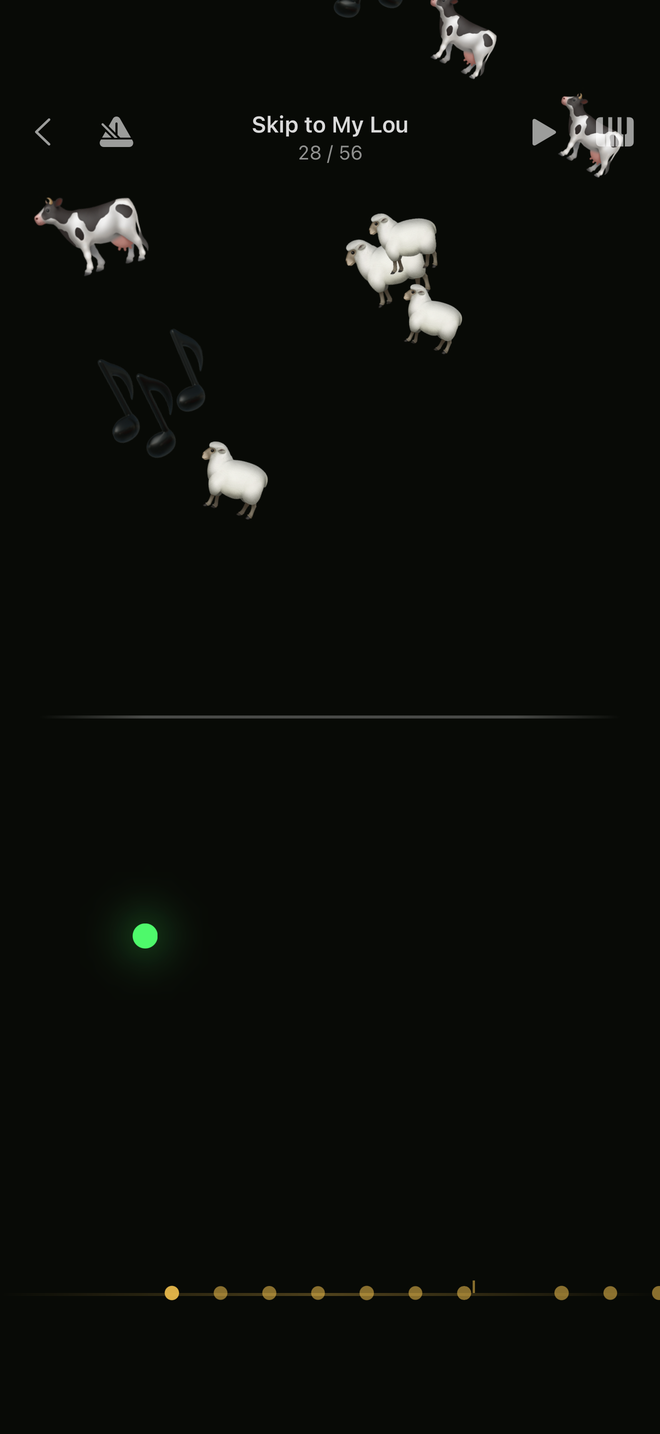
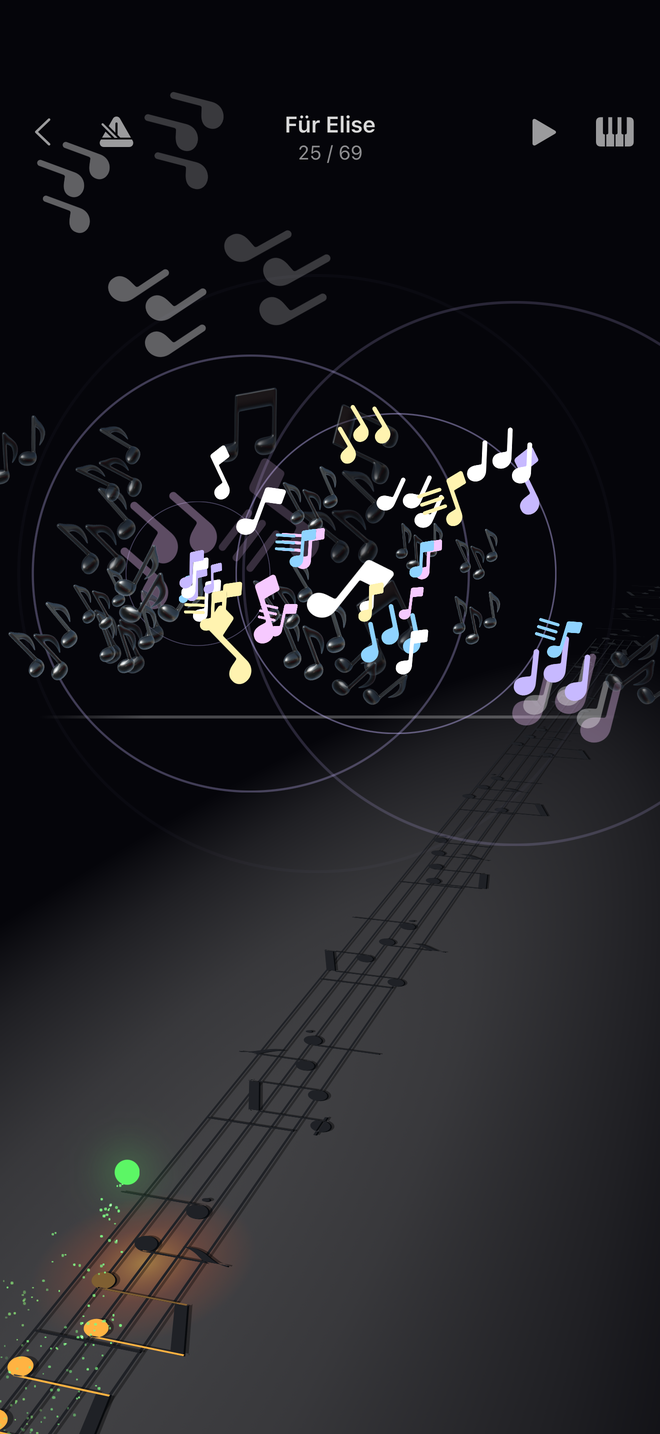
Publish tappymusic: 66 pages

diff --git a/tappymusic/el/index.html b/tappymusic/el/index.html
@@ -57,11 +57,11 @@
   <div class="shots">
     <figure><button class="zoom" type="button" popovertarget="zoom-img-library-png"><img src="../img/library.png" alt="Η βιβλιοθήκη με τα πακέτα μελωδιών και τα τραγούδια τους." width="660" height="1434" loading="lazy"></button></figure>
     <figure><button class="zoom" type="button" popovertarget="zoom-img-play-png"><img src="../img/play.png" alt="Η οθόνη παιξίματος στη μέση ενός τραγουδιού, με εικόνες σε κάθε άγγιγμα." width="660" height="1434" loading="eager"></button></figure>
-    <figure><button class="zoom" type="button" popovertarget="zoom-img-follow-png"><img src="../img/follow.png" alt="Ακολούθησε τη μπάλα: μια μπάλα που αναπηδά πάνω από τη διαδρομή και προσγειώνεται στην επόμενη νότα." width="660" height="1434" loading="lazy"></button></figure>
+    <figure><button class="zoom" type="button" popovertarget="zoom-img-follow-png"><img src="../img/follow.png" alt="Ακολούθησε τη μπάλα: μια μπάλα με αστερόσκονη προσγειώνεται σε αληθινές νότες που απλώνονται στο βάθος." width="660" height="1434" loading="lazy"></button></figure>
   </div>
   <div popover id="zoom-img-library-png" class="zoom-view" style="--ratio: 0.4603; --most: 1320px"><button class="zoom-shut" type="button" popovertarget="zoom-img-library-png" popovertargetaction="hide" aria-labelledby="zoom-close"><img src="../img/library.png" alt="" width="660" height="1434" loading="lazy"><span class="zoom-x" aria-hidden="true">×</span></button><figcaption>Η βιβλιοθήκη με τα πακέτα μελωδιών και τα τραγούδια τους.</figcaption></div>
   <div popover id="zoom-img-play-png" class="zoom-view" style="--ratio: 0.4603; --most: 1320px"><button class="zoom-shut" type="button" popovertarget="zoom-img-play-png" popovertargetaction="hide" aria-labelledby="zoom-close"><img src="../img/play.png" alt="" width="660" height="1434" loading="lazy"><span class="zoom-x" aria-hidden="true">×</span></button><figcaption>Η οθόνη παιξίματος στη μέση ενός τραγουδιού, με εικόνες σε κάθε άγγιγμα.</figcaption></div>
-  <div popover id="zoom-img-follow-png" class="zoom-view" style="--ratio: 0.4603; --most: 1320px"><button class="zoom-shut" type="button" popovertarget="zoom-img-follow-png" popovertargetaction="hide" aria-labelledby="zoom-close"><img src="../img/follow.png" alt="" width="660" height="1434" loading="lazy"><span class="zoom-x" aria-hidden="true">×</span></button><figcaption>Ακολούθησε τη μπάλα: μια μπάλα που αναπηδά πάνω από τη διαδρομή και προσγειώνεται στην επόμενη νότα.</figcaption></div>
+  <div popover id="zoom-img-follow-png" class="zoom-view" style="--ratio: 0.4603; --most: 1320px"><button class="zoom-shut" type="button" popovertarget="zoom-img-follow-png" popovertargetaction="hide" aria-labelledby="zoom-close"><img src="../img/follow.png" alt="" width="660" height="1434" loading="lazy"><span class="zoom-x" aria-hidden="true">×</span></button><figcaption>Ακολούθησε τη μπάλα: μια μπάλα με αστερόσκονη προσγειώνεται σε αληθινές νότες που απλώνονται στο βάθος.</figcaption></div>
 
   <div class="stats">
     <div><b>128</b><span>μελωδίες</span></div>
@@ -124,7 +124,7 @@
   <div class="cards">
     <div class="card">
       <h3>Ακολούθησε τη μπάλα</h3>
-      <p>Μια μπάλα αναπηδά και προσγειώνεται ακριβώς όταν οφείλεται η επόμενη νότα, πέφτοντας με τη βαρύτητα: ο ρυθμός φαίνεται πριν φτάσει.</p>
+      <p>Το τραγούδι γραμμένο σε αληθινή παρτιτούρα, που απλώνεται στο βάθος σαν δρόμος. Μια μπάλα πηδά από νότα σε νότα και προσγειώνεται σε καθεμιά ακριβώς τη στιγμή της: ο ρυθμός φαίνεται πριν φτάσει.</p>
     </div>
     <div class="card">
       <h3>Άκου</h3>

diff --git a/tappymusic/uk/index.html b/tappymusic/uk/index.html
@@ -57,11 +57,11 @@
   <div class="shots">
     <figure><button class="zoom" type="button" popovertarget="zoom-img-library-png"><img src="../img/library.png" alt="Бібліотека з наборами мелодій та їхніми піснями." width="660" height="1434" loading="lazy"></button></figure>
     <figure><button class="zoom" type="button" popovertarget="zoom-img-play-png"><img src="../img/play.png" alt="Екран гри посеред пісні, з малюнками від кожного дотику." width="660" height="1434" loading="eager"></button></figure>
-    <figure><button class="zoom" type="button" popovertarget="zoom-img-follow-png"><img src="../img/follow.png" alt="Слідкуй за м’ячиком: стрибучий м’ячик над доріжкою приземляється на наступну ноту." width="660" height="1434" loading="lazy"></button></figure>
+    <figure><button class="zoom" type="button" popovertarget="zoom-img-follow-png"><img src="../img/follow.png" alt="Слідкуй за м’ячиком: м’ячик із зоряним пилом приземляється на справжні ноти, що біжать удалину." width="660" height="1434" loading="lazy"></button></figure>
   </div>
   <div popover id="zoom-img-library-png" class="zoom-view" style="--ratio: 0.4603; --most: 1320px"><button class="zoom-shut" type="button" popovertarget="zoom-img-library-png" popovertargetaction="hide" aria-labelledby="zoom-close"><img src="../img/library.png" alt="" width="660" height="1434" loading="lazy"><span class="zoom-x" aria-hidden="true">×</span></button><figcaption>Бібліотека з наборами мелодій та їхніми піснями.</figcaption></div>
   <div popover id="zoom-img-play-png" class="zoom-view" style="--ratio: 0.4603; --most: 1320px"><button class="zoom-shut" type="button" popovertarget="zoom-img-play-png" popovertargetaction="hide" aria-labelledby="zoom-close"><img src="../img/play.png" alt="" width="660" height="1434" loading="lazy"><span class="zoom-x" aria-hidden="true">×</span></button><figcaption>Екран гри посеред пісні, з малюнками від кожного дотику.</figcaption></div>
-  <div popover id="zoom-img-follow-png" class="zoom-view" style="--ratio: 0.4603; --most: 1320px"><button class="zoom-shut" type="button" popovertarget="zoom-img-follow-png" popovertargetaction="hide" aria-labelledby="zoom-close"><img src="../img/follow.png" alt="" width="660" height="1434" loading="lazy"><span class="zoom-x" aria-hidden="true">×</span></button><figcaption>Слідкуй за м’ячиком: стрибучий м’ячик над доріжкою приземляється на наступну ноту.</figcaption></div>
+  <div popover id="zoom-img-follow-png" class="zoom-view" style="--ratio: 0.4603; --most: 1320px"><button class="zoom-shut" type="button" popovertarget="zoom-img-follow-png" popovertargetaction="hide" aria-labelledby="zoom-close"><img src="../img/follow.png" alt="" width="660" height="1434" loading="lazy"><span class="zoom-x" aria-hidden="true">×</span></button><figcaption>Слідкуй за м’ячиком: м’ячик із зоряним пилом приземляється на справжні ноти, що біжать удалину.</figcaption></div>
 
   <div class="stats">
     <div><b>128</b><span>мелодій</span></div>
@@ -124,7 +124,7 @@
   <div class="cards">
     <div class="card">
       <h3>Слідкуй за м’ячиком</h3>
-      <p>М’ячик підстрибує й приземляється точно тоді, коли час наступної ноти, падаючи під дією тяжіння: ритм видно ще до того, як він настане.</p>
+      <p>Пісня, записана справжніми нотами, що біжать удалину, мов доріжка. М’ячик стрибає з ноти на ноту й приземляється на кожну саме вчасно: ритм видно ще до того, як він настане.</p>
     </div>
     <div class="card">
       <h3>Послухати</h3>

diff --git a/tappymusic/ru/index.html b/tappymusic/ru/index.html
@@ -57,11 +57,11 @@
   <div class="shots">
     <figure><button class="zoom" type="button" popovertarget="zoom-img-library-png"><img src="../img/library.png" alt="Библиотека с наборами мелодий и их песнями." width="660" height="1434" loading="lazy"></button></figure>
     <figure><button class="zoom" type="button" popovertarget="zoom-img-play-png"><img src="../img/play.png" alt="Экран игры посреди песни, с картинками от каждого касания." width="660" height="1434" loading="eager"></button></figure>
-    <figure><button class="zoom" type="button" popovertarget="zoom-img-follow-png"><img src="../img/follow.png" alt="Следи за мячиком: прыгающий мячик над дорожкой приземляется на следующую ноту." width="660" height="1434" loading="lazy"></button></figure>
+    <figure><button class="zoom" type="button" popovertarget="zoom-img-follow-png"><img src="../img/follow.png" alt="Следи за мячиком: мячик со звёздной пылью приземляется на настоящие ноты, убегающие вдаль." width="660" height="1434" loading="lazy"></button></figure>
   </div>
   <div popover id="zoom-img-library-png" class="zoom-view" style="--ratio: 0.4603; --most: 1320px"><button class="zoom-shut" type="button" popovertarget="zoom-img-library-png" popovertargetaction="hide" aria-labelledby="zoom-close"><img src="../img/library.png" alt="" width="660" height="1434" loading="lazy"><span class="zoom-x" aria-hidden="true">×</span></button><figcaption>Библиотека с наборами мелодий и их песнями.</figcaption></div>
   <div popover id="zoom-img-play-png" class="zoom-view" style="--ratio: 0.4603; --most: 1320px"><button class="zoom-shut" type="button" popovertarget="zoom-img-play-png" popovertargetaction="hide" aria-labelledby="zoom-close"><img src="../img/play.png" alt="" width="660" height="1434" loading="lazy"><span class="zoom-x" aria-hidden="true">×</span></button><figcaption>Экран игры посреди песни, с картинками от каждого касания.</figcaption></div>
-  <div popover id="zoom-img-follow-png" class="zoom-view" style="--ratio: 0.4603; --most: 1320px"><button class="zoom-shut" type="button" popovertarget="zoom-img-follow-png" popovertargetaction="hide" aria-labelledby="zoom-close"><img src="../img/follow.png" alt="" width="660" height="1434" loading="lazy"><span class="zoom-x" aria-hidden="true">×</span></button><figcaption>Следи за мячиком: прыгающий мячик над дорожкой приземляется на следующую ноту.</figcaption></div>
+  <div popover id="zoom-img-follow-png" class="zoom-view" style="--ratio: 0.4603; --most: 1320px"><button class="zoom-shut" type="button" popovertarget="zoom-img-follow-png" popovertargetaction="hide" aria-labelledby="zoom-close"><img src="../img/follow.png" alt="" width="660" height="1434" loading="lazy"><span class="zoom-x" aria-hidden="true">×</span></button><figcaption>Следи за мячиком: мячик со звёздной пылью приземляется на настоящие ноты, убегающие вдаль.</figcaption></div>
 
   <div class="stats">
     <div><b>128</b><span>мелодий</span></div>
@@ -124,7 +124,7 @@
   <div class="cards">
     <div class="card">
       <h3>Следи за мячиком</h3>
-      <p>Мячик подпрыгивает и приземляется ровно тогда, когда пора следующей ноте, падая под действием тяжести: ритм виден ещё до того, как наступит.</p>
+      <p>Песня, записанная настоящими нотами, которые убегают вдаль, как дорожка. Мячик прыгает с ноты на ноту и приземляется на каждую ровно вовремя: ритм виден ещё до того, как наступит.</p>
     </div>
     <div class="card">
       <h3>Послушать</h3>

diff --git a/tappymusic/ja/index.html b/tappymusic/ja/index.html
@@ -57,11 +57,11 @@
   <div class="shots">
     <figure><button class="zoom" type="button" popovertarget="zoom-img-library-png"><img src="../img/library.png" alt="曲のパックと、その中の曲が並ぶ一覧。" width="660" height="1434" loading="lazy"></button></figure>
     <figure><button class="zoom" type="button" popovertarget="zoom-img-play-png"><img src="../img/play.png" alt="演奏中の画面。タップのたびに絵が飛び出します。" width="660" height="1434" loading="eager"></button></figure>
-    <figure><button class="zoom" type="button" popovertarget="zoom-img-follow-png"><img src="../img/follow.png" alt="ボールに合わせる：道すじの上をはずむボールが、次の音に着地します。" width="660" height="1434" loading="lazy"></button></figure>
+    <figure><button class="zoom" type="button" popovertarget="zoom-img-follow-png"><img src="../img/follow.png" alt="ボールに合わせる：星くずをまとったボールが、遠くへ続く本物の音符に着地します。" width="660" height="1434" loading="lazy"></button></figure>
   </div>
   <div popover id="zoom-img-library-png" class="zoom-view" style="--ratio: 0.4603; --most: 1320px"><button class="zoom-shut" type="button" popovertarget="zoom-img-library-png" popovertargetaction="hide" aria-labelledby="zoom-close"><img src="../img/library.png" alt="" width="660" height="1434" loading="lazy"><span class="zoom-x" aria-hidden="true">×</span></button><figcaption>曲のパックと、その中の曲が並ぶ一覧。</figcaption></div>
   <div popover id="zoom-img-play-png" class="zoom-view" style="--ratio: 0.4603; --most: 1320px"><button class="zoom-shut" type="button" popovertarget="zoom-img-play-png" popovertargetaction="hide" aria-labelledby="zoom-close"><img src="../img/play.png" alt="" width="660" height="1434" loading="lazy"><span class="zoom-x" aria-hidden="true">×</span></button><figcaption>演奏中の画面。タップのたびに絵が飛び出します。</figcaption></div>
-  <div popover id="zoom-img-follow-png" class="zoom-view" style="--ratio: 0.4603; --most: 1320px"><button class="zoom-shut" type="button" popovertarget="zoom-img-follow-png" popovertargetaction="hide" aria-labelledby="zoom-close"><img src="../img/follow.png" alt="" width="660" height="1434" loading="lazy"><span class="zoom-x" aria-hidden="true">×</span></button><figcaption>ボールに合わせる：道すじの上をはずむボールが、次の音に着地します。</figcaption></div>
+  <div popover id="zoom-img-follow-png" class="zoom-view" style="--ratio: 0.4603; --most: 1320px"><button class="zoom-shut" type="button" popovertarget="zoom-img-follow-png" popovertargetaction="hide" aria-labelledby="zoom-close"><img src="../img/follow.png" alt="" width="660" height="1434" loading="lazy"><span class="zoom-x" aria-hidden="true">×</span></button><figcaption>ボールに合わせる：星くずをまとったボールが、遠くへ続く本物の音符に着地します。</figcaption></div>
 
   <div class="stats">
     <div><b>128</b><span>曲</span></div>
@@ -124,7 +124,7 @@
   <div class="cards">
     <div class="card">
       <h3>ボールに合わせる</h3>
-      <p>ボールが弾んで、次の音のタイミングちょうどに着地します。重力で落ちるので、リズムが来る前に目で見えます。</p>
+      <p>曲が本物の楽譜になって、道のように遠くまで続きます。ボールが音符から音符へ跳ね、それぞれのタイミングちょうどに着地するので、リズムが来る前に目で見えます。</p>
     </div>
     <div class="card">
       <h3>聴く</h3>

diff --git a/tappymusic/ko/index.html b/tappymusic/ko/index.html
@@ -57,11 +57,11 @@
   <div class="shots">
     <figure><button class="zoom" type="button" popovertarget="zoom-img-library-png"><img src="../img/library.png" alt="멜로디 팩과 그 안의 곡이 보이는 목록." width="660" height="1434" loading="lazy"></button></figure>
     <figure><button class="zoom" type="button" popovertarget="zoom-img-play-png"><img src="../img/play.png" alt="곡을 연주하는 중의 화면. 두드릴 때마다 그림이 튀어나옵니다." width="660" height="1434" loading="eager"></button></figure>
-    <figure><button class="zoom" type="button" popovertarget="zoom-img-follow-png"><img src="../img/follow.png" alt="공에 맞춰 연주: 길 위를 튀는 공이 다음 음에 내려앉습니다." width="660" height="1434" loading="lazy"></button></figure>
+    <figure><button class="zoom" type="button" popovertarget="zoom-img-follow-png"><img src="../img/follow.png" alt="공에 맞춰 연주: 별가루를 날리는 공이 멀리 이어지는 진짜 음표에 내려앉습니다." width="660" height="1434" loading="lazy"></button></figure>
   </div>
   <div popover id="zoom-img-library-png" class="zoom-view" style="--ratio: 0.4603; --most: 1320px"><button class="zoom-shut" type="button" popovertarget="zoom-img-library-png" popovertargetaction="hide" aria-labelledby="zoom-close"><img src="../img/library.png" alt="" width="660" height="1434" loading="lazy"><span class="zoom-x" aria-hidden="true">×</span></button><figcaption>멜로디 팩과 그 안의 곡이 보이는 목록.</figcaption></div>
   <div popover id="zoom-img-play-png" class="zoom-view" style="--ratio: 0.4603; --most: 1320px"><button class="zoom-shut" type="button" popovertarget="zoom-img-play-png" popovertargetaction="hide" aria-labelledby="zoom-close"><img src="../img/play.png" alt="" width="660" height="1434" loading="lazy"><span class="zoom-x" aria-hidden="true">×</span></button><figcaption>곡을 연주하는 중의 화면. 두드릴 때마다 그림이 튀어나옵니다.</figcaption></div>
-  <div popover id="zoom-img-follow-png" class="zoom-view" style="--ratio: 0.4603; --most: 1320px"><button class="zoom-shut" type="button" popovertarget="zoom-img-follow-png" popovertargetaction="hide" aria-labelledby="zoom-close"><img src="../img/follow.png" alt="" width="660" height="1434" loading="lazy"><span class="zoom-x" aria-hidden="true">×</span></button><figcaption>공에 맞춰 연주: 길 위를 튀는 공이 다음 음에 내려앉습니다.</figcaption></div>
+  <div popover id="zoom-img-follow-png" class="zoom-view" style="--ratio: 0.4603; --most: 1320px"><button class="zoom-shut" type="button" popovertarget="zoom-img-follow-png" popovertargetaction="hide" aria-labelledby="zoom-close"><img src="../img/follow.png" alt="" width="660" height="1434" loading="lazy"><span class="zoom-x" aria-hidden="true">×</span></button><figcaption>공에 맞춰 연주: 별가루를 날리는 공이 멀리 이어지는 진짜 음표에 내려앉습니다.</figcaption></div>
 
   <div class="stats">
     <div><b>128</b><span>곡</span></div>
@@ -124,7 +124,7 @@
   <div class="cards">
     <div class="card">
       <h3>공에 맞춰 연주</h3>
-      <p>공이 튀어올랐다가 다음 음이 나올 바로 그때 떨어집니다. 중력으로 떨어지기에 리듬이 오기 전에 눈에 보입니다.</p>
+      <p>노래가 진짜 악보로 그려져 길처럼 저 멀리까지 이어집니다. 공이 음표에서 음표로 튀어 각 음표가 나올 바로 그때 떨어지기에, 리듬이 오기 전에 눈에 보입니다.</p>
     </div>
     <div class="card">
       <h3>듣기</h3>

diff --git a/tappymusic/fr/index.html b/tappymusic/fr/index.html
@@ -57,11 +57,11 @@
   <div class="shots">
     <figure><button class="zoom" type="button" popovertarget="zoom-img-library-png"><img src="../img/library.png" alt="La bibliothèque, avec les packs de mélodies et leurs morceaux." width="660" height="1434" loading="lazy"></button></figure>
     <figure><button class="zoom" type="button" popovertarget="zoom-img-play-png"><img src="../img/play.png" alt="L’écran de jeu en plein morceau, avec les images lancées par chaque toucher." width="660" height="1434" loading="eager"></button></figure>
-    <figure><button class="zoom" type="button" popovertarget="zoom-img-follow-png"><img src="../img/follow.png" alt="Le guide : une balle rebondissante au-dessus du chemin, qui retombe sur la note suivante." width="660" height="1434" loading="lazy"></button></figure>
+    <figure><button class="zoom" type="button" popovertarget="zoom-img-follow-png"><img src="../img/follow.png" alt="Le guide : une balle et sa poussière d’étoiles retombent sur de vraies notes qui filent au loin." width="660" height="1434" loading="lazy"></button></figure>
   </div>
   <div popover id="zoom-img-library-png" class="zoom-view" style="--ratio: 0.4603; --most: 1320px"><button class="zoom-shut" type="button" popovertarget="zoom-img-library-png" popovertargetaction="hide" aria-labelledby="zoom-close"><img src="../img/library.png" alt="" width="660" height="1434" loading="lazy"><span class="zoom-x" aria-hidden="true">×</span></button><figcaption>La bibliothèque, avec les packs de mélodies et leurs morceaux.</figcaption></div>
   <div popover id="zoom-img-play-png" class="zoom-view" style="--ratio: 0.4603; --most: 1320px"><button class="zoom-shut" type="button" popovertarget="zoom-img-play-png" popovertargetaction="hide" aria-labelledby="zoom-close"><img src="../img/play.png" alt="" width="660" height="1434" loading="lazy"><span class="zoom-x" aria-hidden="true">×</span></button><figcaption>L’écran de jeu en plein morceau, avec les images lancées par chaque toucher.</figcaption></div>
-  <div popover id="zoom-img-follow-png" class="zoom-view" style="--ratio: 0.4603; --most: 1320px"><button class="zoom-shut" type="button" popovertarget="zoom-img-follow-png" popovertargetaction="hide" aria-labelledby="zoom-close"><img src="../img/follow.png" alt="" width="660" height="1434" loading="lazy"><span class="zoom-x" aria-hidden="true">×</span></button><figcaption>Le guide : une balle rebondissante au-dessus du chemin, qui retombe sur la note suivante.</figcaption></div>
+  <div popover id="zoom-img-follow-png" class="zoom-view" style="--ratio: 0.4603; --most: 1320px"><button class="zoom-shut" type="button" popovertarget="zoom-img-follow-png" popovertargetaction="hide" aria-labelledby="zoom-close"><img src="../img/follow.png" alt="" width="660" height="1434" loading="lazy"><span class="zoom-x" aria-hidden="true">×</span></button><figcaption>Le guide : une balle et sa poussière d’étoiles retombent sur de vraies notes qui filent au loin.</figcaption></div>
 
   <div class="stats">
     <div><b>128</b><span>mélodies</span></div>
@@ -124,7 +124,7 @@
   <div class="cards">
     <div class="card">
       <h3>Suivre la balle</h3>
-      <p>Une balle rebondit et retombe exactement quand la note suivante est due, en tombant sous l’effet de la gravité : le rythme se voit avant d’arriver.</p>
+      <p>La chanson écrite en vraie partition, qui file au loin comme un chemin. Une balle saute de note en note et retombe sur chacune pile au bon moment : le rythme se voit avant d’arriver.</p>
     </div>
     <div class="card">
       <h3>Écouter</h3>

diff --git a/tappymusic/de/index.html b/tappymusic/de/index.html
@@ -57,11 +57,11 @@
   <div class="shots">
     <figure><button class="zoom" type="button" popovertarget="zoom-img-library-png"><img src="../img/library.png" alt="Die Übersicht mit den Melodiepaketen und ihren Liedern." width="660" height="1434" loading="lazy"></button></figure>
     <figure><button class="zoom" type="button" popovertarget="zoom-img-play-png"><img src="../img/play.png" alt="Die Spielfläche mitten im Lied, mit Bildern, die jedes Antippen aufwirbelt." width="660" height="1434" loading="eager"></button></figure>
-    <figure><button class="zoom" type="button" popovertarget="zoom-img-follow-png"><img src="../img/follow.png" alt="Mitlaufen: ein hüpfender Ball über dem Weg, der auf dem nächsten Ton landet." width="660" height="1434" loading="lazy"></button></figure>
+    <figure><button class="zoom" type="button" popovertarget="zoom-img-follow-png"><img src="../img/follow.png" alt="Mitlaufen: ein Ball mit Sternenstaub landet auf echten Noten, die in die Ferne laufen." width="660" height="1434" loading="lazy"></button></figure>
   </div>
   <div popover id="zoom-img-library-png" class="zoom-view" style="--ratio: 0.4603; --most: 1320px"><button class="zoom-shut" type="button" popovertarget="zoom-img-library-png" popovertargetaction="hide" aria-labelledby="zoom-close"><img src="../img/library.png" alt="" width="660" height="1434" loading="lazy"><span class="zoom-x" aria-hidden="true">×</span></button><figcaption>Die Übersicht mit den Melodiepaketen und ihren Liedern.</figcaption></div>
   <div popover id="zoom-img-play-png" class="zoom-view" style="--ratio: 0.4603; --most: 1320px"><button class="zoom-shut" type="button" popovertarget="zoom-img-play-png" popovertargetaction="hide" aria-labelledby="zoom-close"><img src="../img/play.png" alt="" width="660" height="1434" loading="lazy"><span class="zoom-x" aria-hidden="true">×</span></button><figcaption>Die Spielfläche mitten im Lied, mit Bildern, die jedes Antippen aufwirbelt.</figcaption></div>
-  <div popover id="zoom-img-follow-png" class="zoom-view" style="--ratio: 0.4603; --most: 1320px"><button class="zoom-shut" type="button" popovertarget="zoom-img-follow-png" popovertargetaction="hide" aria-labelledby="zoom-close"><img src="../img/follow.png" alt="" width="660" height="1434" loading="lazy"><span class="zoom-x" aria-hidden="true">×</span></button><figcaption>Mitlaufen: ein hüpfender Ball über dem Weg, der auf dem nächsten Ton landet.</figcaption></div>
+  <div popover id="zoom-img-follow-png" class="zoom-view" style="--ratio: 0.4603; --most: 1320px"><button class="zoom-shut" type="button" popovertarget="zoom-img-follow-png" popovertargetaction="hide" aria-labelledby="zoom-close"><img src="../img/follow.png" alt="" width="660" height="1434" loading="lazy"><span class="zoom-x" aria-hidden="true">×</span></button><figcaption>Mitlaufen: ein Ball mit Sternenstaub landet auf echten Noten, die in die Ferne laufen.</figcaption></div>
 
   <div class="stats">
     <div><b>128</b><span>Melodien</span></div>
@@ -124,7 +124,7 @@
   <div class="cards">
     <div class="card">
       <h3>Mitspielen</h3>
-      <p>Ein Ball springt und landet genau dann, wenn der nächste Ton fällig ist — er fällt unter Schwerkraft, sodass der Rhythmus sichtbar wird, bevor er da ist.</p>
+      <p>Das Lied als echte Noten, die wie ein Weg in die Ferne laufen. Ein Ball hüpft von Note zu Note und landet auf jeder genau dann, wenn sie dran ist — so wird der Rhythmus sichtbar, bevor er da ist.</p>
     </div>
     <div class="card">
       <h3>Anhören</h3>

diff --git a/tappymusic/it/index.html b/tappymusic/it/index.html
@@ -57,11 +57,11 @@
   <div class="shots">
     <figure><button class="zoom" type="button" popovertarget="zoom-img-library-png"><img src="../img/library.png" alt="La libreria, con i pacchetti di melodie e i loro brani." width="660" height="1434" loading="lazy"></button></figure>
     <figure><button class="zoom" type="button" popovertarget="zoom-img-play-png"><img src="../img/play.png" alt="La schermata di gioco a metà brano, con le immagini lanciate da ogni tocco." width="660" height="1434" loading="eager"></button></figure>
-    <figure><button class="zoom" type="button" popovertarget="zoom-img-follow-png"><img src="../img/follow.png" alt="La guida: una palla che rimbalza sul percorso e atterra sulla nota successiva." width="660" height="1434" loading="lazy"></button></figure>
+    <figure><button class="zoom" type="button" popovertarget="zoom-img-follow-png"><img src="../img/follow.png" alt="La guida: una palla con polvere di stelle atterra su note vere che corrono lontano." width="660" height="1434" loading="lazy"></button></figure>
   </div>
   <div popover id="zoom-img-library-png" class="zoom-view" style="--ratio: 0.4603; --most: 1320px"><button class="zoom-shut" type="button" popovertarget="zoom-img-library-png" popovertargetaction="hide" aria-labelledby="zoom-close"><img src="../img/library.png" alt="" width="660" height="1434" loading="lazy"><span class="zoom-x" aria-hidden="true">×</span></button><figcaption>La libreria, con i pacchetti di melodie e i loro brani.</figcaption></div>
   <div popover id="zoom-img-play-png" class="zoom-view" style="--ratio: 0.4603; --most: 1320px"><button class="zoom-shut" type="button" popovertarget="zoom-img-play-png" popovertargetaction="hide" aria-labelledby="zoom-close"><img src="../img/play.png" alt="" width="660" height="1434" loading="lazy"><span class="zoom-x" aria-hidden="true">×</span></button><figcaption>La schermata di gioco a metà brano, con le immagini lanciate da ogni tocco.</figcaption></div>
-  <div popover id="zoom-img-follow-png" class="zoom-view" style="--ratio: 0.4603; --most: 1320px"><button class="zoom-shut" type="button" popovertarget="zoom-img-follow-png" popovertargetaction="hide" aria-labelledby="zoom-close"><img src="../img/follow.png" alt="" width="660" height="1434" loading="lazy"><span class="zoom-x" aria-hidden="true">×</span></button><figcaption>La guida: una palla che rimbalza sul percorso e atterra sulla nota successiva.</figcaption></div>
+  <div popover id="zoom-img-follow-png" class="zoom-view" style="--ratio: 0.4603; --most: 1320px"><button class="zoom-shut" type="button" popovertarget="zoom-img-follow-png" popovertargetaction="hide" aria-labelledby="zoom-close"><img src="../img/follow.png" alt="" width="660" height="1434" loading="lazy"><span class="zoom-x" aria-hidden="true">×</span></button><figcaption>La guida: una palla con polvere di stelle atterra su note vere che corrono lontano.</figcaption></div>
 
   <div class="stats">
     <div><b>128</b><span>melodie</span></div>
@@ -124,7 +124,7 @@
   <div class="cards">
     <div class="card">
       <h3>Segui la palla</h3>
-      <p>Una palla rimbalza e atterra esattamente quando è dovuta la nota successiva, cadendo per gravità: così il ritmo si vede prima di arrivare.</p>
+      <p>La canzone scritta su un vero spartito, che corre lontano come una strada. Una palla salta di nota in nota e atterra su ciascuna esattamente al momento giusto: così il ritmo si vede prima di arrivare.</p>
     </div>
     <div class="card">
       <h3>Ascolta</h3>

diff --git a/tappymusic/pt/index.html b/tappymusic/pt/index.html
@@ -57,11 +57,11 @@
   <div class="shots">
     <figure><button class="zoom" type="button" popovertarget="zoom-img-library-png"><img src="../img/library.png" alt="A biblioteca, com os pacotes de melodias e suas músicas." width="660" height="1434" loading="lazy"></button></figure>
     <figure><button class="zoom" type="button" popovertarget="zoom-img-play-png"><img src="../img/play.png" alt="A tela de tocar no meio da música, com as figuras lançadas por cada toque." width="660" height="1434" loading="eager"></button></figure>
-    <figure><button class="zoom" type="button" popovertarget="zoom-img-follow-png"><img src="../img/follow.png" alt="O guia: uma bola quicando sobre o caminho, que cai na próxima nota." width="660" height="1434" loading="lazy"></button></figure>
+    <figure><button class="zoom" type="button" popovertarget="zoom-img-follow-png"><img src="../img/follow.png" alt="O guia: uma bola com poeira de estrelas pousa em notas de verdade que se estendem ao longe." width="660" height="1434" loading="lazy"></button></figure>
   </div>
   <div popover id="zoom-img-library-png" class="zoom-view" style="--ratio: 0.4603; --most: 1320px"><button class="zoom-shut" type="button" popovertarget="zoom-img-library-png" popovertargetaction="hide" aria-labelledby="zoom-close"><img src="../img/library.png" alt="" width="660" height="1434" loading="lazy"><span class="zoom-x" aria-hidden="true">×</span></button><figcaption>A biblioteca, com os pacotes de melodias e suas músicas.</figcaption></div>
   <div popover id="zoom-img-play-png" class="zoom-view" style="--ratio: 0.4603; --most: 1320px"><button class="zoom-shut" type="button" popovertarget="zoom-img-play-png" popovertargetaction="hide" aria-labelledby="zoom-close"><img src="../img/play.png" alt="" width="660" height="1434" loading="lazy"><span class="zoom-x" aria-hidden="true">×</span></button><figcaption>A tela de tocar no meio da música, com as figuras lançadas por cada toque.</figcaption></div>
-  <div popover id="zoom-img-follow-png" class="zoom-view" style="--ratio: 0.4603; --most: 1320px"><button class="zoom-shut" type="button" popovertarget="zoom-img-follow-png" popovertargetaction="hide" aria-labelledby="zoom-close"><img src="../img/follow.png" alt="" width="660" height="1434" loading="lazy"><span class="zoom-x" aria-hidden="true">×</span></button><figcaption>O guia: uma bola quicando sobre o caminho, que cai na próxima nota.</figcaption></div>
+  <div popover id="zoom-img-follow-png" class="zoom-view" style="--ratio: 0.4603; --most: 1320px"><button class="zoom-shut" type="button" popovertarget="zoom-img-follow-png" popovertargetaction="hide" aria-labelledby="zoom-close"><img src="../img/follow.png" alt="" width="660" height="1434" loading="lazy"><span class="zoom-x" aria-hidden="true">×</span></button><figcaption>O guia: uma bola com poeira de estrelas pousa em notas de verdade que se estendem ao longe.</figcaption></div>
 
   <div class="stats">
     <div><b>128</b><span>melodias</span></div>
@@ -124,7 +124,7 @@
   <div class="cards">
     <div class="card">
       <h3>Acompanhar</h3>
-      <p>Uma bola quica e cai exatamente quando a próxima nota é devida, caindo pela gravidade: assim o ritmo se vê antes de chegar.</p>
+      <p>A música escrita numa partitura de verdade, que se estende ao longe como um caminho. Uma bola salta de nota em nota e cai em cada uma exatamente na hora certa: assim o ritmo se vê antes de chegar.</p>
     </div>
     <div class="card">
       <h3>Ouvir</h3>

diff --git a/tappymusic/es/index.html b/tappymusic/es/index.html
@@ -57,11 +57,11 @@
   <div class="shots">
     <figure><button class="zoom" type="button" popovertarget="zoom-img-library-png"><img src="../img/library.png" alt="La biblioteca, con los packs de melodías y sus canciones." width="660" height="1434" loading="lazy"></button></figure>
     <figure><button class="zoom" type="button" popovertarget="zoom-img-play-png"><img src="../img/play.png" alt="La pantalla de juego a media canción, con los dibujos que lanza cada toque." width="660" height="1434" loading="eager"></button></figure>
-    <figure><button class="zoom" type="button" popovertarget="zoom-img-follow-png"><img src="../img/follow.png" alt="La guía: una pelota que rebota sobre el camino y cae en la siguiente nota." width="660" height="1434" loading="lazy"></button></figure>
+    <figure><button class="zoom" type="button" popovertarget="zoom-img-follow-png"><img src="../img/follow.png" alt="La guía: una pelota con polvo de estrellas cae sobre notas de verdad que se alejan." width="660" height="1434" loading="lazy"></button></figure>
   </div>
   <div popover id="zoom-img-library-png" class="zoom-view" style="--ratio: 0.4603; --most: 1320px"><button class="zoom-shut" type="button" popovertarget="zoom-img-library-png" popovertargetaction="hide" aria-labelledby="zoom-close"><img src="../img/library.png" alt="" width="660" height="1434" loading="lazy"><span class="zoom-x" aria-hidden="true">×</span></button><figcaption>La biblioteca, con los packs de melodías y sus canciones.</figcaption></div>
   <div popover id="zoom-img-play-png" class="zoom-view" style="--ratio: 0.4603; --most: 1320px"><button class="zoom-shut" type="button" popovertarget="zoom-img-play-png" popovertargetaction="hide" aria-labelledby="zoom-close"><img src="../img/play.png" alt="" width="660" height="1434" loading="lazy"><span class="zoom-x" aria-hidden="true">×</span></button><figcaption>La pantalla de juego a media canción, con los dibujos que lanza cada toque.</figcaption></div>
-  <div popover id="zoom-img-follow-png" class="zoom-view" style="--ratio: 0.4603; --most: 1320px"><button class="zoom-shut" type="button" popovertarget="zoom-img-follow-png" popovertargetaction="hide" aria-labelledby="zoom-close"><img src="../img/follow.png" alt="" width="660" height="1434" loading="lazy"><span class="zoom-x" aria-hidden="true">×</span></button><figcaption>La guía: una pelota que rebota sobre el camino y cae en la siguiente nota.</figcaption></div>
+  <div popover id="zoom-img-follow-png" class="zoom-view" style="--ratio: 0.4603; --most: 1320px"><button class="zoom-shut" type="button" popovertarget="zoom-img-follow-png" popovertargetaction="hide" aria-labelledby="zoom-close"><img src="../img/follow.png" alt="" width="660" height="1434" loading="lazy"><span class="zoom-x" aria-hidden="true">×</span></button><figcaption>La guía: una pelota con polvo de estrellas cae sobre notas de verdad que se alejan.</figcaption></div>
 
   <div class="stats">
     <div><b>128</b><span>melodías</span></div>
@@ -124,7 +124,7 @@
   <div class="cards">
     <div class="card">
       <h3>Sigue la pelota</h3>
-      <p>Una pelota rebota y aterriza justo cuando toca la nota siguiente, cayendo con la gravedad: así el ritmo se ve antes de llegar.</p>
+      <p>La canción escrita en una partitura de verdad, que se aleja como un camino. Una pelota salta de nota en nota y cae en cada una justo cuando toca: así el ritmo se ve antes de llegar.</p>
     </div>
     <div class="card">
       <h3>Escucha</h3>

diff --git a/tappymusic/index.html b/tappymusic/index.html
@@ -57,11 +57,11 @@
   <div class="shots">
     <figure><button class="zoom" type="button" popovertarget="zoom-img-library-png"><img src="img/library.png" alt="The library, showing packs of melodies with their songs listed." width="660" height="1434" loading="lazy"></button></figure>
     <figure><button class="zoom" type="button" popovertarget="zoom-img-play-png"><img src="img/play.png" alt="Twinkle, Twinkle mid-song, with stars thrown up by each tap." width="660" height="1434" loading="eager"></button></figure>
-    <figure><button class="zoom" type="button" popovertarget="zoom-img-follow-png"><img src="img/follow.png" alt="The follow guide: a bouncing ball over the road, landing on the next note." width="660" height="1434" loading="lazy"></button></figure>
+    <figure><button class="zoom" type="button" popovertarget="zoom-img-follow-png"><img src="img/follow.png" alt="The follow guide: a ball with stardust landing on real notes that run into the distance." width="660" height="1434" loading="lazy"></button></figure>
   </div>
   <div popover id="zoom-img-library-png" class="zoom-view" style="--ratio: 0.4603; --most: 1320px"><button class="zoom-shut" type="button" popovertarget="zoom-img-library-png" popovertargetaction="hide" aria-labelledby="zoom-close"><img src="img/library.png" alt="" width="660" height="1434" loading="lazy"><span class="zoom-x" aria-hidden="true">×</span></button><figcaption>The library, showing packs of melodies with their songs listed.</figcaption></div>
   <div popover id="zoom-img-play-png" class="zoom-view" style="--ratio: 0.4603; --most: 1320px"><button class="zoom-shut" type="button" popovertarget="zoom-img-play-png" popovertargetaction="hide" aria-labelledby="zoom-close"><img src="img/play.png" alt="" width="660" height="1434" loading="lazy"><span class="zoom-x" aria-hidden="true">×</span></button><figcaption>Twinkle, Twinkle mid-song, with stars thrown up by each tap.</figcaption></div>
-  <div popover id="zoom-img-follow-png" class="zoom-view" style="--ratio: 0.4603; --most: 1320px"><button class="zoom-shut" type="button" popovertarget="zoom-img-follow-png" popovertargetaction="hide" aria-labelledby="zoom-close"><img src="img/follow.png" alt="" width="660" height="1434" loading="lazy"><span class="zoom-x" aria-hidden="true">×</span></button><figcaption>The follow guide: a bouncing ball over the road, landing on the next note.</figcaption></div>
+  <div popover id="zoom-img-follow-png" class="zoom-view" style="--ratio: 0.4603; --most: 1320px"><button class="zoom-shut" type="button" popovertarget="zoom-img-follow-png" popovertargetaction="hide" aria-labelledby="zoom-close"><img src="img/follow.png" alt="" width="660" height="1434" loading="lazy"><span class="zoom-x" aria-hidden="true">×</span></button><figcaption>The follow guide: a ball with stardust landing on real notes that run into the distance.</figcaption></div>
 
   <div class="stats">
     <div><b>128</b><span>melodies</span></div>
@@ -124,7 +124,7 @@
   <div class="cards">
     <div class="card">
       <h3>Follow along</h3>
-      <p>A ball bounces and lands exactly when the next note is due, falling under gravity — so the rhythm can be seen before it arrives.</p>
+      <p>The song written out as real sheet music, running into the distance like a road. A ball hops from note to note and lands on each one exactly when it is due — so the rhythm can be seen before it arrives.</p>
     </div>
     <div class="card">
       <h3>Listen</h3>
